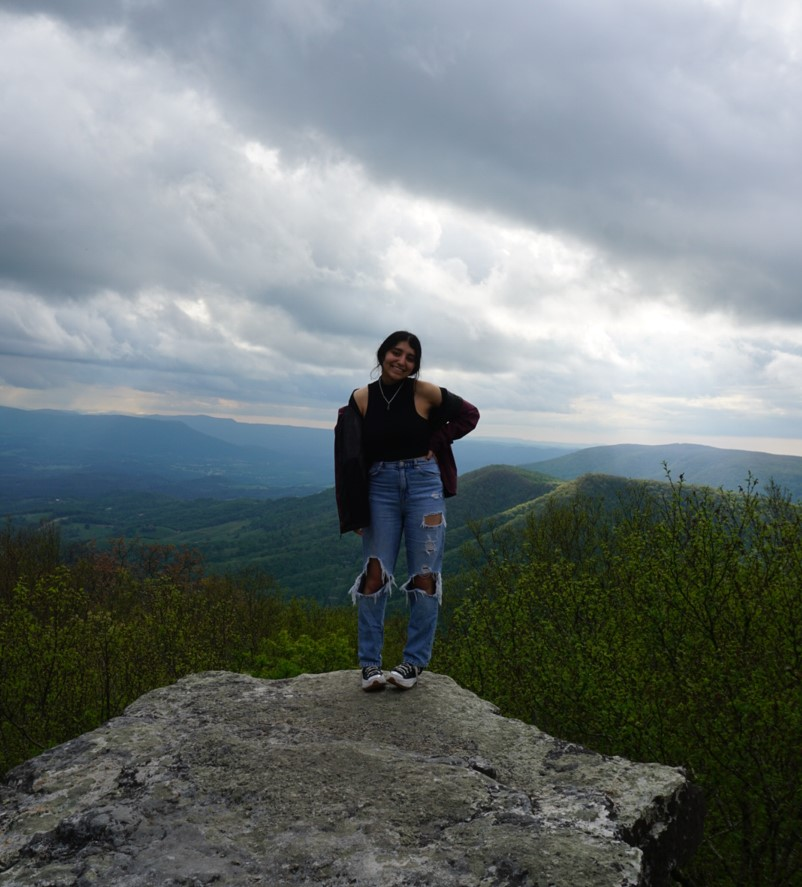
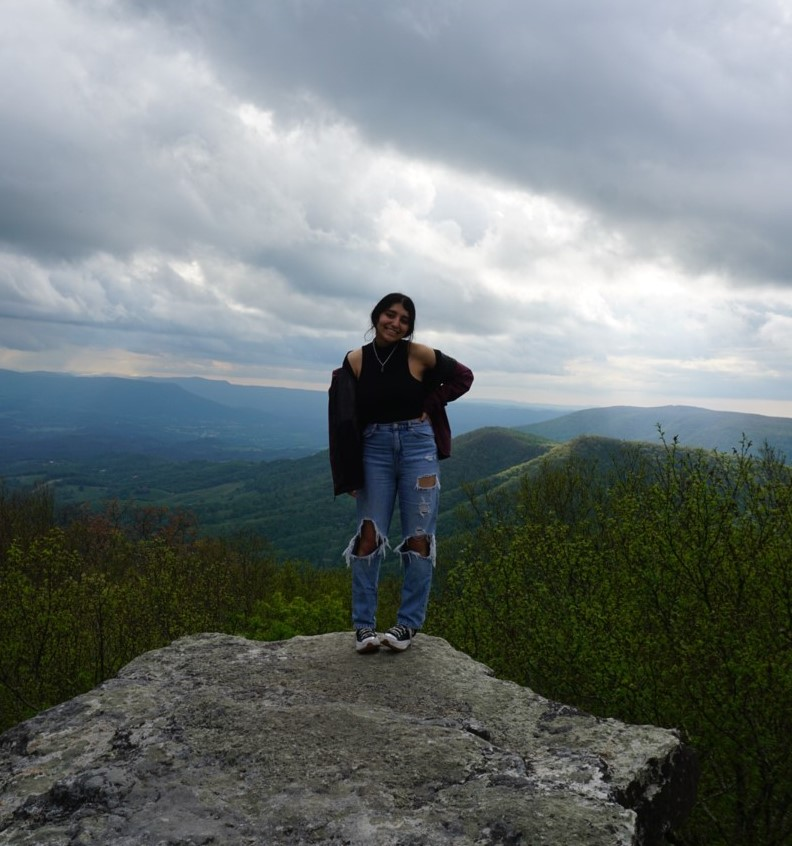
Add files via upload

diff --git a/index.html b/index.html
@@ -87,7 +87,7 @@
   <div class="photogrid">
   <div class="row">
       <div class="column">
-          <img src="screamm.JPG" alt="Mirror positioned as the head of a body producing the illusion of a screaming head as the hands of the body hold the mirror. The word Despair in white lettering, contrasting the black of the background, is placed above the mirror-like head">
+          <img src="sc.JPG" alt="Mirror positioned as the head of a body producing the illusion of a screaming head as the hands of the body hold the mirror. The word Despair in white lettering, contrasting the black of the background, is placed above the mirror">
           <img src="light.jpg" alt="A light fixture in the form of an opened upside down umbrella is positioned above impractical seating area">
       </div>
       <div class="column">
@@ -116,7 +116,7 @@
   </div>
 
   <div>
- <img src="hikee.jpg" alt="describe the image HERE for accessibility purposes" class="none" style="max-width:100%;">
+ <img src="hikee.jpg" alt="Picture of me on a hike" class="none" style="max-width:100%;">
     </div>
 
     <div id="logo">
